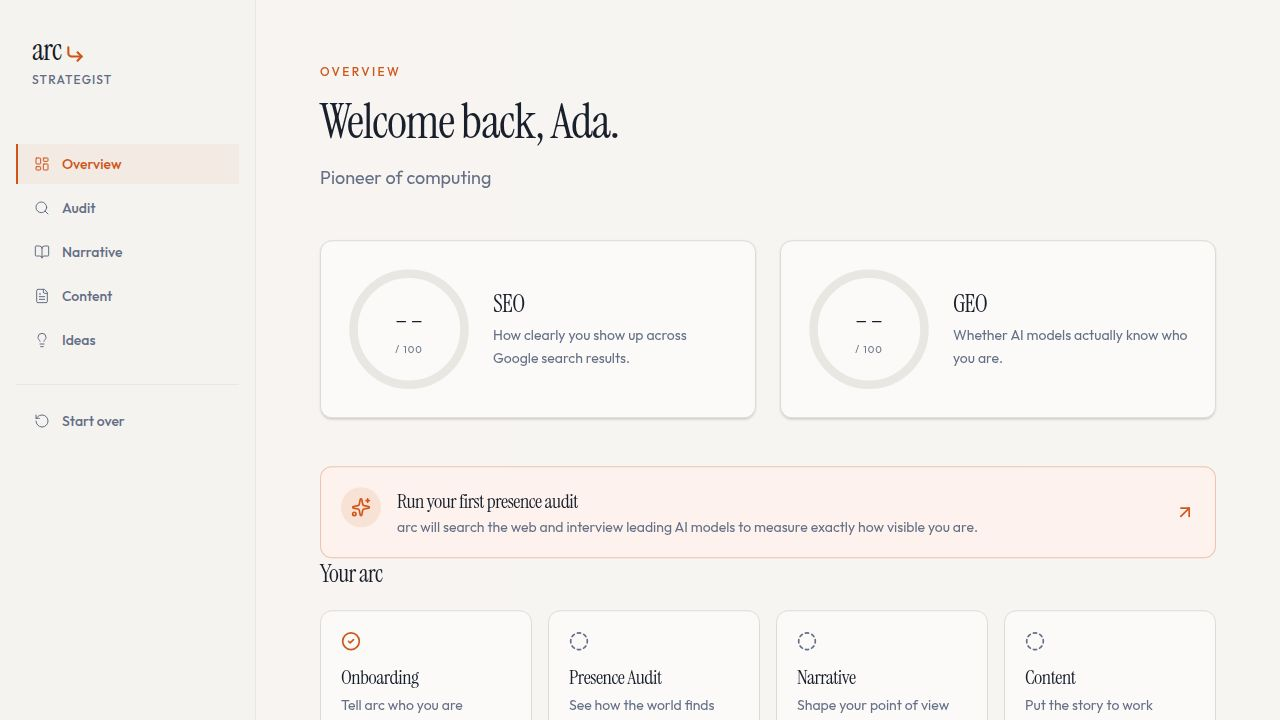
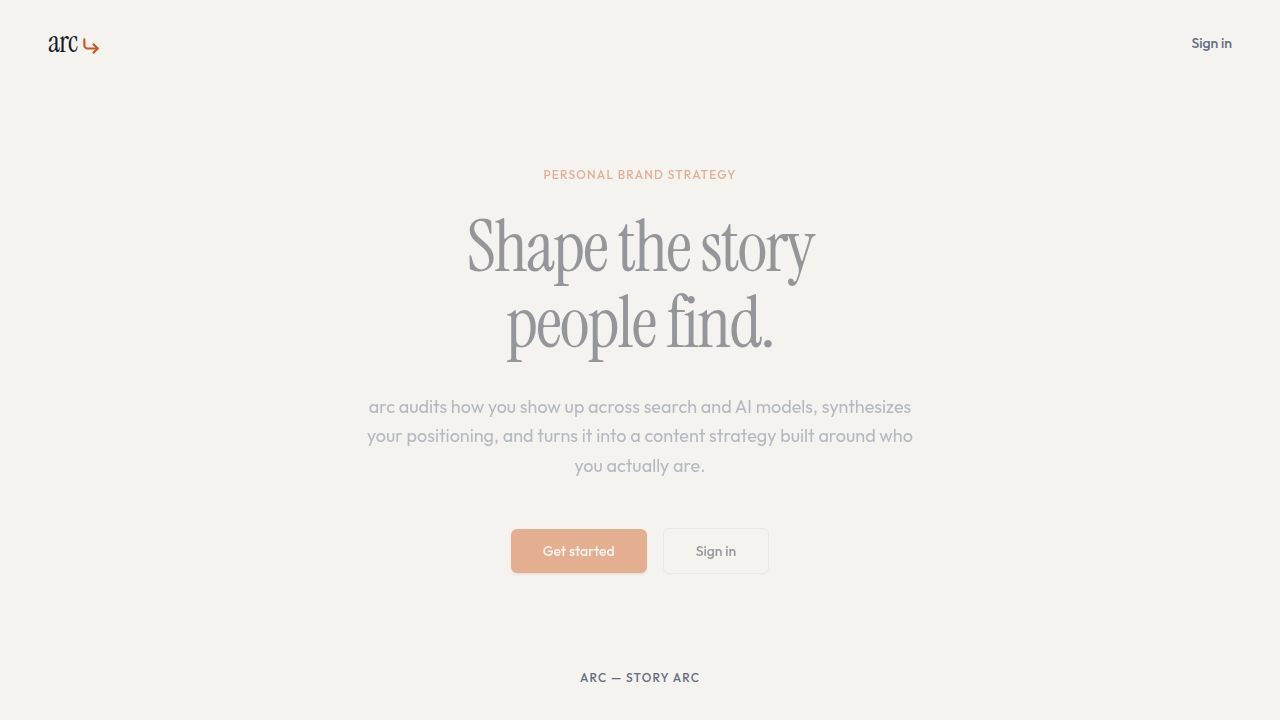
Add in-app account management (profile, email, password) + account deletion
Task #7: Let users manage their account.

Frontend (artifacts/personal-brand):
- New pages/account.tsx renders Clerk <UserProfile routing="hash" /> so users can
  update email, password, and connected sign-in methods, themed to match arc.
- Adds a "Delete account" danger card with an AlertDialog confirmation that calls
  the new deleteAccount hook, clears the React Query cache, signs out, and
  redirects to the landing page.
- Routes /account inside the existing RequireAuth + Layout group in App.tsx.
- Adds an "Account settings" link (Settings icon) to the UserMenu in
  components/layout.tsx (shown in both desktop sidebar and mobile sheet).

Backend (artifacts/api-server):
- New DELETE /account route (operationId deleteAccount) added to
  lib/api-spec/openapi.yaml and regenerated hooks/zod via codegen.
- Route clears the user's client profile + derived data (posts, ideas,
  narrative, audit) then deletes the Clerk user via clerkClient.users.deleteUser.
- Refactored the shared deletion transaction into deleteClientData(), reused by
  both /client/reset and /account.

Deviation: implemented the optional account-deletion item from the task. Used
server-side admin deletion (clerkClient) rather than client-side user.delete()
so it works regardless of the tenant's self-delete setting and keeps DB cleanup
atomic with the auth deletion. Used hash routing for <UserProfile /> to avoid
adding sub-route wiring.
[…]

diff --git a/artifacts/personal-brand/src/pages/account.tsx b/artifacts/personal-brand/src/pages/account.tsx
@@ -1,0 +1,125 @@
+import { useState } from "react";
+import { useLocation } from "wouter";
+import { UserProfile, useClerk } from "@clerk/react";
+import { Loader2, Trash2 } from "lucide-react";
+import { useQueryClient } from "@tanstack/react-query";
+import { useDeleteAccount } from "@workspace/api-client-react";
+import {
+  AlertDialog,
+  AlertDialogAction,
+  AlertDialogCancel,
+  AlertDialogContent,
+  AlertDialogDescription,
+  AlertDialogFooter,
+  AlertDialogHeader,
+  AlertDialogTitle,
+  AlertDialogTrigger,
+} from "@/components/ui/alert-dialog";
+import { useToast } from "@/hooks/use-toast";
+
+const basePath = import.meta.env.BASE_URL.replace(/\/$/, "");
+
+function DeleteAccount() {
+  const [open, setOpen] = useState(false);
+  const queryClient = useQueryClient();
+  const { signOut } = useClerk();
+  const { toast } = useToast();
+  const { mutate, isPending } = useDeleteAccount();
+
+  const handleDelete = () => {
+    mutate(undefined, {
+      onSuccess: async () => {
+        await queryClient.clear();
+        await signOut({ redirectUrl: basePath || "/" });
+      },
+      onError: () => {
+        toast({
+          title: "Could not delete account",
+          description:
+            "Something went wrong while deleting your account. Please try again.",
+          variant: "destructive",
+        });
+      },
+    });
+  };
+
+  return (
+    <div className="rounded-2xl border border-destructive/30 bg-destructive/5 p-6 md:p-8">
+      <h2 className="font-serif text-2xl text-foreground">Delete account</h2>
+      <p className="mt-2 max-w-prose text-sm text-muted-foreground">
+        Permanently delete your account along with your profile, presence audit,
+        narrative, posts, and ideas. This removes your sign-in entirely and
+        cannot be undone.
+      </p>
+      <AlertDialog open={open} onOpenChange={setOpen}>
+        <AlertDialogTrigger asChild>
+          <button className="mt-5 inline-flex items-center gap-2 rounded-lg border border-destructive/40 bg-background px-4 py-2.5 text-sm font-medium text-destructive transition-colors duration-300 hover:bg-destructive/10">
+            <Trash2 className="h-4 w-4 stroke-[1.5]" />
+            Delete my account
+          </button>
+        </AlertDialogTrigger>
+        <AlertDialogContent>
+          <AlertDialogHeader>
+            <AlertDialogTitle className="font-serif text-2xl">
+              Delete your account?
+            </AlertDialogTitle>
+            <AlertDialogDescription>
+              This permanently erases your account and all associated data —
+              profile, presence audit, narrative, posts, and ideas. You will be
+              signed out immediately. This cannot be undone.
+            </AlertDialogDescription>
+          </AlertDialogHeader>
+          <AlertDialogFooter>
+            <AlertDialogCancel disabled={isPending}>Cancel</AlertDialogCancel>
+            <AlertDialogAction
+              onClick={(e) => {
+                e.preventDefault();
+                handleDelete();
+              }}
+              disabled={isPending}
+              className="bg-destructive text-destructive-foreground hover:bg-destructive/90"
+            >
+              {isPending ? (
+                <>
+                  <Loader2 className="mr-2 h-4 w-4 animate-spin" />
+                  Deleting
+                </>
+              ) : (
+                "Delete account"
+              )}
+            </AlertDialogAction>
+          </AlertDialogFooter>
+        </AlertDialogContent>
+      </AlertDialog>
+    </div>
+  );
+}
+
+export default function Account() {
+  return (
+    <div className="flex flex-col gap-10">
+      <div>
+        <h1 className="font-serif text-4xl tracking-tight text-foreground">
+          Account
+        </h1>
+        <p className="mt-2 text-sm text-muted-foreground">
+          Manage your email, password, and connected sign-in methods.
+        </p>
+      </div>
+
+      <UserProfile
+        routing="hash"
+        appearance={{
+          elements: {
+            rootBox: "w-full",
+            cardBox:
+              "w-full max-w-full shadow-none border border-border/60 rounded-2xl bg-card",
+            navbar: "border-r border-border/50",
+          },
+        }}
+      />
+
+      <DeleteAccount />
+    </div>
+  );
+}

diff --git a/artifacts/api-server/src/routes/client.ts b/artifacts/api-server/src/routes/client.ts
@@ -9,8 +9,23 @@ import {
 } from "@workspace/db";
 import { UpsertClientBody } from "@workspace/api-zod";
 import { eq } from "drizzle-orm";
+import { clerkClient } from "@clerk/express";
 
 const router = Router();
+
+async function deleteClientData(clientId: number) {
+  await db.transaction(async (tx) => {
+    await tx.delete(postsTable).where(eq(postsTable.clientId, clientId));
+    await tx.delete(ideasTable).where(eq(ideasTable.clientId, clientId));
+    await tx
+      .delete(narrativeProfilesTable)
+      .where(eq(narrativeProfilesTable.clientId, clientId));
+    await tx
+      .delete(auditResultsTable)
+      .where(eq(auditResultsTable.clientId, clientId));
+    await tx.delete(clientProfileTable).where(eq(clientProfileTable.id, clientId));
+  });
+}
 
 function serializeClient(c: typeof clientProfileTable.$inferSelect) {
   const { userId: _userId, ...rest } = c;
@@ -105,13 +120,17 @@ router.post("/client/reset", async (req, res) => {
     res.status(204).end();
     return;
   }
-  await db.transaction(async (tx) => {
-    await tx.delete(postsTable).where(eq(postsTable.clientId, client.id));
-    await tx.delete(ideasTable).where(eq(ideasTable.clientId, client.id));
-    await tx.delete(narrativeProfilesTable).where(eq(narrativeProfilesTable.clientId, client.id));
-    await tx.delete(auditResultsTable).where(eq(auditResultsTable.clientId, client.id));
-    await tx.delete(clientProfileTable).where(eq(clientProfileTable.id, client.id));
-  });
+  await deleteClientData(client.id);
+  res.status(204).end();
+});
+
+router.delete("/account", async (req, res) => {
+  const userId = req.userId!;
+  const client = await getClientForUser(userId);
+  if (client) {
+    await deleteClientData(client.id);
+  }
+  await clerkClient.users.deleteUser(userId);
   res.status(204).end();
 });
 

diff --git a/artifacts/personal-brand/src/components/layout.tsx b/artifacts/personal-brand/src/components/layout.tsx
@@ -9,7 +9,8 @@ import {
   CornerDownRight,
   RotateCcw,
   LogOut,
-  Loader2
+  Loader2,
+  Settings
 } from "lucide-react";
 import { useClerk, useUser } from "@clerk/react";
 import { Sheet, SheetContent, SheetTrigger } from "@/components/ui/sheet";
@@ -119,6 +120,12 @@ function UserMenu() {
           Signed in
         </p>
       </div>
+      <Link href="/account">
+        <div className="flex w-full items-center gap-3 px-4 py-2.5 rounded-none text-sm font-medium text-muted-foreground border-l-2 border-transparent transition-all duration-300 cursor-pointer hover:text-foreground hover:bg-secondary/30 hover:border-secondary-foreground/20">
+          <Settings className="w-4 h-4 stroke-[1.5]" />
+          Account settings
+        </div>
+      </Link>
       <button
         onClick={() => signOut({ redirectUrl: basePath || "/" })}
         className="flex w-full items-center gap-3 px-4 py-2.5 rounded-none text-sm font-medium text-muted-foreground border-l-2 border-transparent transition-all duration-300 hover:text-foreground hover:bg-secondary/30 hover:border-secondary-foreground/20"

diff --git a/artifacts/personal-brand/src/App.tsx b/artifacts/personal-brand/src/App.tsx
@@ -28,6 +28,7 @@ import Audit from "@/pages/audit";
 import Narrative from "@/pages/narrative";
 import Content from "@/pages/content";
 import Ideas from "@/pages/ideas";
+import Account from "@/pages/account";
 import NotFound from "@/pages/not-found";
 
 const clerkPubKey = publishableKeyFromHost(
@@ -216,6 +217,7 @@ function ClerkProviderWithRoutes() {
                     <Route path="/narrative" component={Narrative} />
                     <Route path="/content" component={Content} />
                     <Route path="/ideas" component={Ideas} />
+                    <Route path="/account" component={Account} />
                     <Route component={NotFound} />
                   </Switch>
                 </Layout>